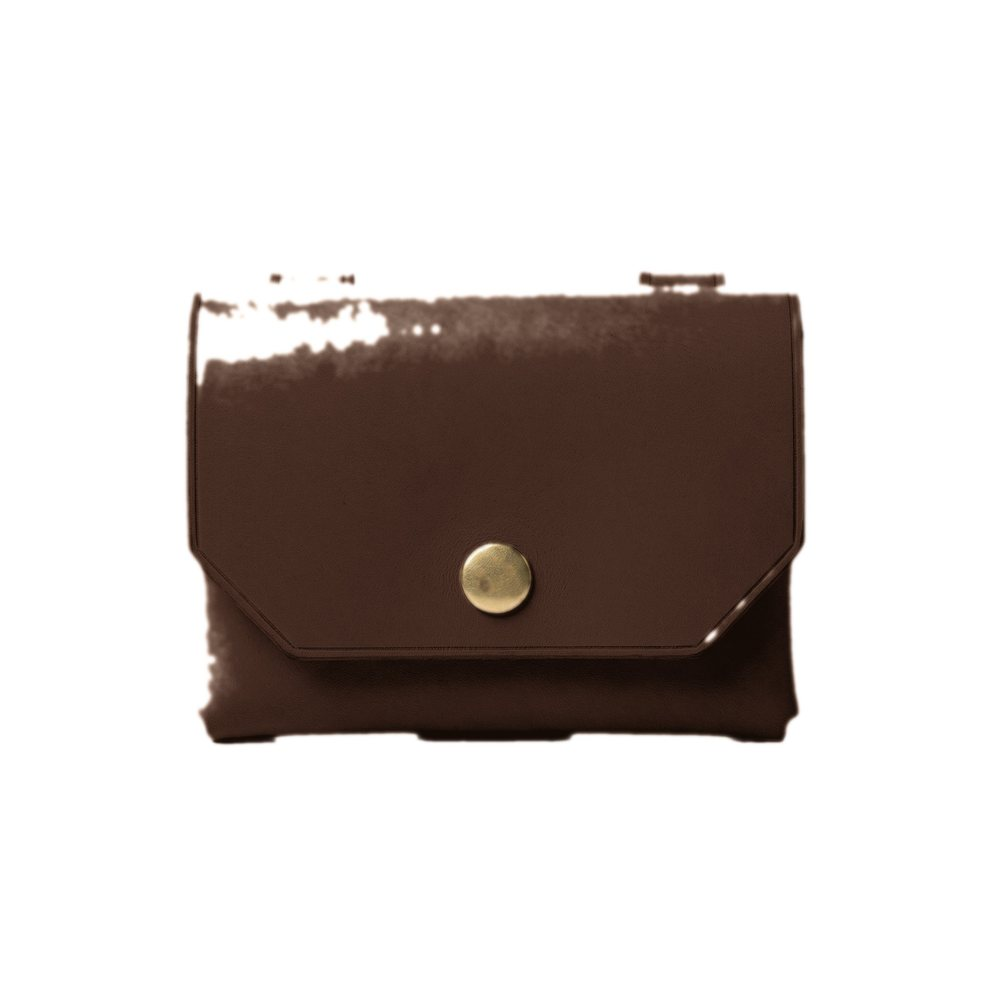
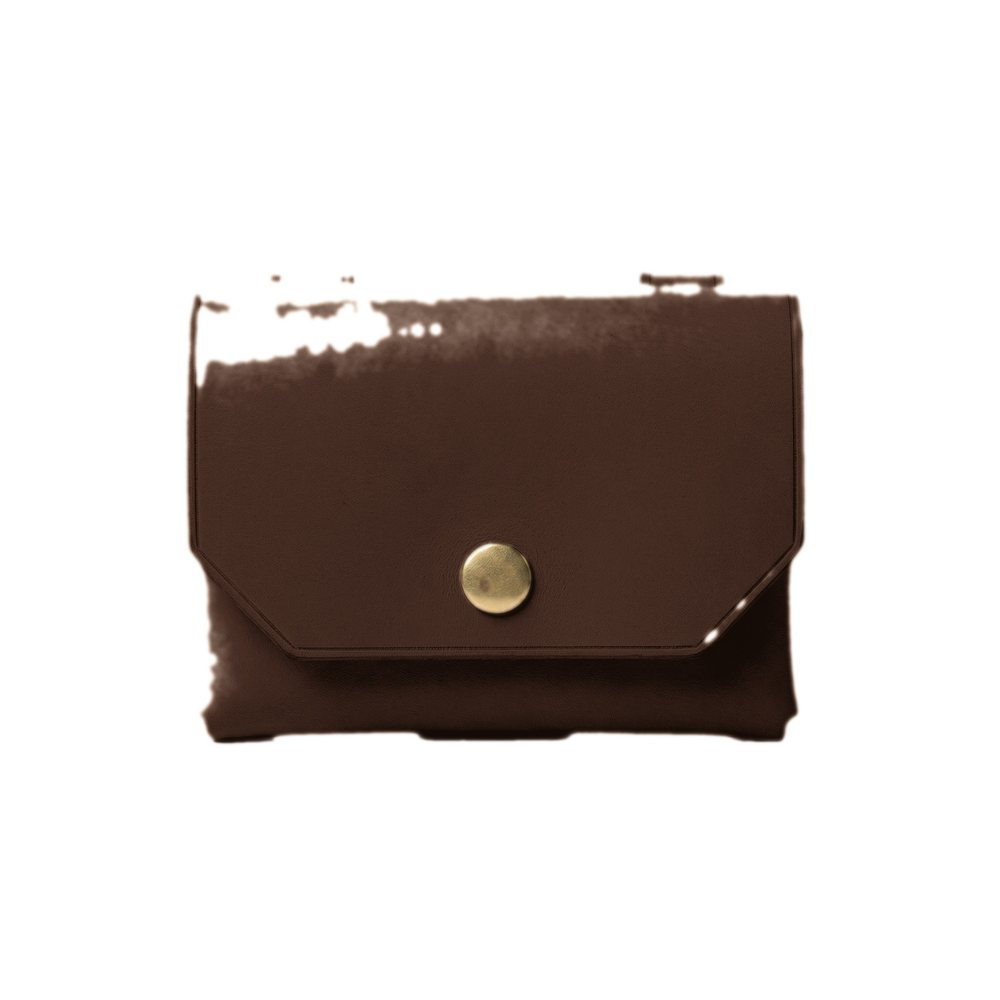
その他の色は色を変えず入力欄を出す形にし、ナチュラルの白飛びを解消
その他の色:
選ぶと写真の色が勝手に変わっていたのをやめ、直前に選んだ色のまま据え置く。
代わりに「何色にしたいか入力してください」の入力欄と「追加料金が必要です」を
出す。入力した色名はそのまま仕様書に載る。長い説明文は削除。
ステッチのその他も同じ扱い。

ナチュラル:
他の色は明度を目標レンジに写していたが、ナチュラルだけ素通しだったため、
明度の中央値0.95で白飛びしていた。同じ処理を通して0.78前後に整え、
白飛びは0.00%になった。

Claude-Session: https://claude.ai/code/session_016AtETMtHpM8tqHZ44gkQZM

diff --git a/js/order.js b/js/order.js
@@ -44,7 +44,14 @@ function showToast(message) {
 
 // ---- 状態 ----
 const DATA = window.ORDER;
-const state = { product: null, color: 'black', size: '', note: '', choices: {} };
+const state = {
+  product: null,
+  color: 'black',
+  // 「その他の色」を選んでも写真は直前の色のまま出す
+  previewColor: 'black',
+  otherText: {},
+  size: '', note: '', choices: {}
+};
 
 function product() {
   return DATA.products.find(function (p) { return p.id === state.product; });
@@ -64,9 +71,24 @@ function colorObj() {
 }
 
 function variantSrc(productId, colorId) {
-  // 「その他の色」は見本を用意できないので、ナチュラルの写真を借りて表示する
-  const c = colorId === 'other' ? 'natural' : colorId;
-  return 'assets/img/variants/' + productId + '_' + c + '.jpg';
+  return 'assets/img/variants/' + productId + '_' + colorId + '.jpg';
+}
+
+// 「その他」を選んだ項目に、希望の色を書いてもらう欄を足す
+function otherField(key, onInput) {
+  const box = document.createElement('div');
+  box.className = 'other-field';
+  box.innerHTML =
+    '<label for="other-' + key + '">何色にしたいか入力してください</label>' +
+    '<input type="text" id="other-' + key + '" maxlength="40" autocomplete="off">' +
+    '<p class="other-fee">追加料金が必要です</p>';
+  const input = box.querySelector('input');
+  input.value = state.otherText[key] || '';
+  input.addEventListener('input', function () {
+    state.otherText[key] = this.value.trim();
+    if (onInput) onInput();
+  });
+  return box;
 }
 
 // ---- ステップ制御 ----
@@ -118,6 +140,7 @@ function selectProduct(id) {
   state.size = '';
   state.note = '';
   state.choices = {};
+  state.otherText = {};
   groups().forEach(function (g) { state.choices[g.key] = g.options[0].id; });
   buildControls();
   renderPreview();
@@ -175,6 +198,7 @@ function buildControls() {
       '<span class="swatch-label">' + c.label + '</span>';
     btn.addEventListener('click', function () {
       state.color = c.id;
+      if (c.id !== 'other') state.previewColor = c.id;
       colorList.querySelectorAll('.swatch').forEach(function (b) {
         b.classList.remove('is-active');
         b.setAttribute('aria-checked', 'false');
@@ -186,10 +210,9 @@ function buildControls() {
     colorList.appendChild(btn);
   });
   colorBlock.appendChild(colorList);
-  const colorDesc = document.createElement('p');
-  colorDesc.className = 'ctrl-desc';
-  colorDesc.id = 'colorDesc';
-  colorBlock.appendChild(colorDesc);
+  const colorOther = otherField('color');
+  colorOther.id = 'colorOther';
+  colorBlock.appendChild(colorOther);
   wrap.appendChild(colorBlock);
 
   // 共通 + 製品ごとの選択肢
@@ -223,6 +246,10 @@ function buildControls() {
       list.appendChild(btn);
     });
     block.appendChild(list);
+
+    const other = otherField(group.key);
+    other.dataset.otherFor = group.key;
+    block.appendChild(other);
 
     const desc = document.createElement('p');
     desc.className = 'ctrl-desc';
@@ -261,16 +288,20 @@ function renderPreview() {
     caption.textContent = product().name +
       '（' + colorObj().label + 'の写真は準備中のため、既存の写真を表示しています）';
   };
-  img.src = variantSrc(state.product, state.color);
-  img.alt = product().name + ' ' + colorObj().label;
-  caption.textContent = state.color === 'other'
-    ? product().name + ' / その他の色（写真はナチュラルです）'
-    : product().name + ' / ' + colorObj().label;
+  img.src = variantSrc(state.product, state.previewColor);
+  img.alt = product().name;
+  caption.textContent = product().name;
 
   const cv = document.getElementById('colorValue');
   if (cv) cv.textContent = colorObj().label;
-  const cd = document.getElementById('colorDesc');
-  if (cd) cd.textContent = colorObj().desc || '';
+
+  // 「その他」を選んでいる項目だけ、入力欄を出す
+  const co = document.getElementById('colorOther');
+  if (co) co.classList.toggle('is-open', state.color === 'other');
+  groups().forEach(function (g) {
+    const box = document.querySelector('[data-other-for="' + g.key + '"]');
+    if (box) box.classList.toggle('is-open', chosen(g.key).other === true);
+  });
 
   groups().forEach(function (g) {
     const el = document.querySelector('[data-value-for="' + g.key + '"]');
@@ -305,9 +336,16 @@ function renderConfirm() {
     list.appendChild(el);
   }
 
+  function withOther(key, label) {
+    if (!state.otherText[key]) return label + '（追加料金）';
+    return state.otherText[key] + '（その他の色・追加料金）';
+  }
   row('製品', product().name);
-  row('色', colorObj().label + (state.color === 'other' ? '（別途費用）' : ''));
-  groups().forEach(function (g) { row(g.label, chosen(g.key).label); });
+  row('色', state.color === 'other' ? withOther('color', 'その他の色') : colorObj().label);
+  groups().forEach(function (g) {
+    const o = chosen(g.key);
+    row(g.label, o.other ? withOther(g.key, o.label) : o.label);
+  });
   if (product().size) {
     row(product().size.label, state.size ? state.size + ' ' + product().size.unit : '相談して決める');
   }
@@ -321,10 +359,14 @@ document.getElementById('orderNote').addEventListener('input', function () {
 
 function specText() {
   const lines = ['VÉLF「' + product().name + '」のオーダーで相談したいです。', ''];
-  lines.push('色：' + colorObj().label + (state.color === 'other' ? '（別途費用の相談あり）' : ''));
+  function otherLabel(key, fallback) {
+    return (state.otherText[key] || fallback) + '（その他の色・追加料金）';
+  }
+  lines.push('色：' + (state.color === 'other'
+    ? otherLabel('color', '色は相談したい') : colorObj().label));
   groups().forEach(function (g) {
     const o = chosen(g.key);
-    lines.push(g.label + '：' + o.label + (o.id === 'other' ? '（別途費用の相談あり）' : ''));
+    lines.push(g.label + '：' + (o.other ? otherLabel(g.key, '色は相談したい') : o.label));
   });
   if (product().size) {
     lines.push(product().size.label + '：' +

diff --git a/js/order-options.js b/js/order-options.js
@@ -1,7 +1,7 @@
 /* =========================================================================
    オーダーシミュレーターの中身。
-   【要確認】その他の色を選んだときの追加費用は未定。若林さんに確認して
-   OTHER_COLOR_NOTE と add の値を入れる。
+   【要確認】その他の色を選んだときの追加料金は未定。金額が決まったら
+   その他の選択肢の add に入れる。
    ========================================================================= */
 
 window.ORDER = {
@@ -10,8 +10,7 @@ window.ORDER = {
     { id: 'black', label: 'ブラック', chip: '#1c1c1c', add: 0 },
     { id: 'darkbrown', label: 'ダークブラウン', chip: '#3f2a1b', add: 0 },
     { id: 'natural', label: 'ナチュラル', chip: '#d8b483', add: 0 },
-    { id: 'other', label: 'その他の色', chip: 'other', add: 0,
-      desc: '上記以外の色をご希望の場合、革の取り寄せが必要になるため別途費用をいただきます。ご相談ください。' }
+    { id: 'other', label: 'その他の色', chip: 'other', add: 0, other: true }
   ],
 
   // 全製品に共通で選べるもの
@@ -25,8 +24,7 @@ window.ORDER = {
         { id: 'natural', label: 'きなり', chip: '#e6dcc8', add: 0 },
         { id: 'turquoise', label: 'ターコイズブルー', chip: '#3aa6b9', add: 0 },
         { id: 'darkbrown', label: 'ダークブラウン', chip: '#3f2a1b', add: 0 },
-        { id: 'other', label: 'その他の色', chip: 'other', add: 0,
-          desc: '上記以外の色をご希望の場合、糸の取り寄せが必要になるため別途費用をいただきます。ご相談ください。' }
+        { id: 'other', label: 'その他の色', chip: 'other', add: 0, other: true }
       ]
     }
   ],

diff --git a/css/order.css b/css/order.css
@@ -452,3 +452,32 @@
 .swatch-chip.is-other {
   background: conic-gradient(#1c1c1c, #3f2a1b, #8e2230, #3aa6b9, #d8b483, #1c1c1c);
 }
+
+/* 「その他の色」を選んだときだけ出す入力欄 */
+.other-field { display: none; margin-top: 0.9rem; }
+.other-field.is-open { display: block; }
+.other-field label {
+  display: block;
+  font-size: 12px;
+  letter-spacing: 0.12em;
+  color: var(--ink-soft);
+  margin-bottom: 0.4rem;
+}
+.other-field input {
+  width: 100%;
+  max-width: 320px;
+  font-family: var(--gothic);
+  font-size: 15px;
+  color: var(--ink);
+  background: transparent;
+  border: none;
+  border-bottom: 1px solid var(--line);
+  border-radius: 0;
+  padding: 0.5rem 0.1rem;
+}
+.other-field input:focus { outline: none; border-bottom-color: var(--ink); }
+.other-fee {
+  font-size: 12px;
+  color: var(--ink);
+  margin-top: 0.5rem;
+}
